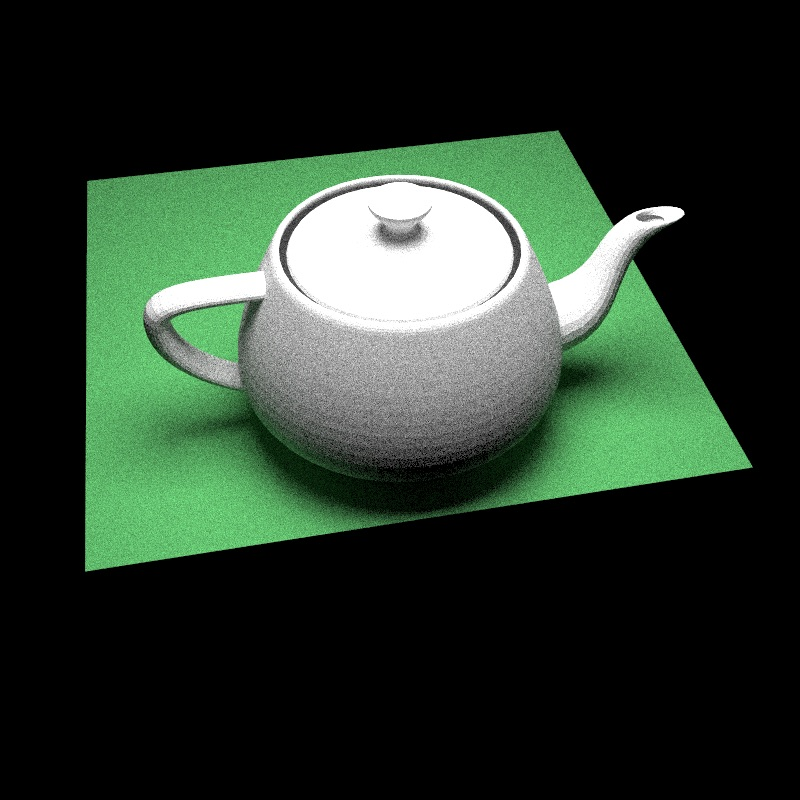
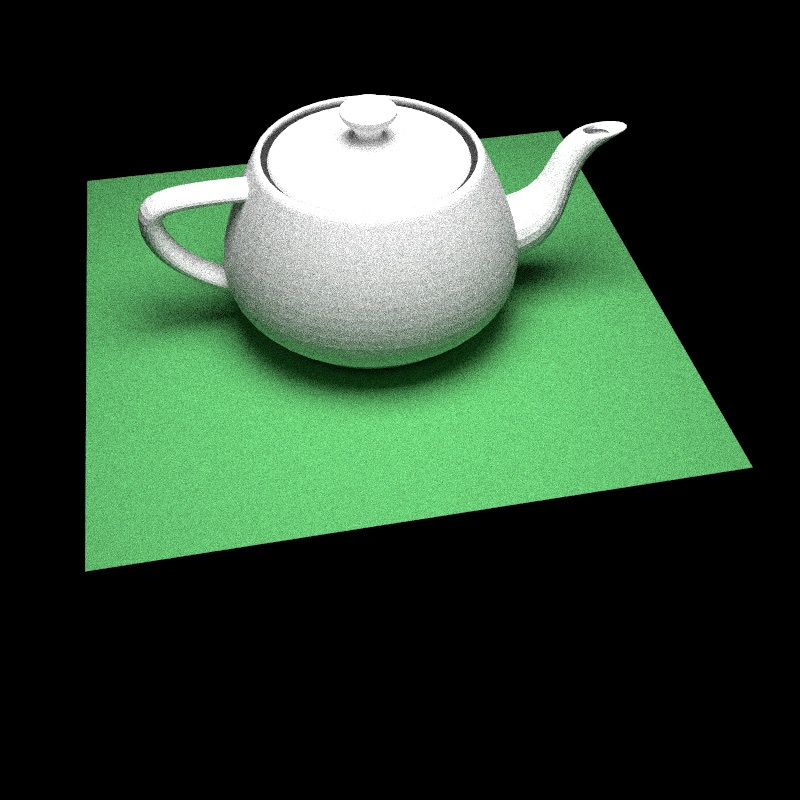
wip

Changed region(s): [[0.0938, 0.0938, 0.9375, 0.7188]]

diff --git a/src/main.cc b/src/main.cc
@@ -597,8 +597,9 @@ void test() {
   world.add(make_shared<quad>(point3(-3, 10, -3), vec3(6, 0, 0), vec3(0, 0, 6), light));
   world.add(make_shared<quad>(point3(-4, 0, 2), vec3(8, 0, 0), vec3(0, 0, -8), green));
 
-  shared_ptr<hittable> triangle = read_obj("teapot.obj", white);
-  world.add(triangle);
+  shared_ptr<hittable> object = read_obj("resources/teapot.obj", white);
+  object = make_shared<translate>(object, vec3(0, 0, -2));
+  world.add(object);
 
   camera cam;
 
